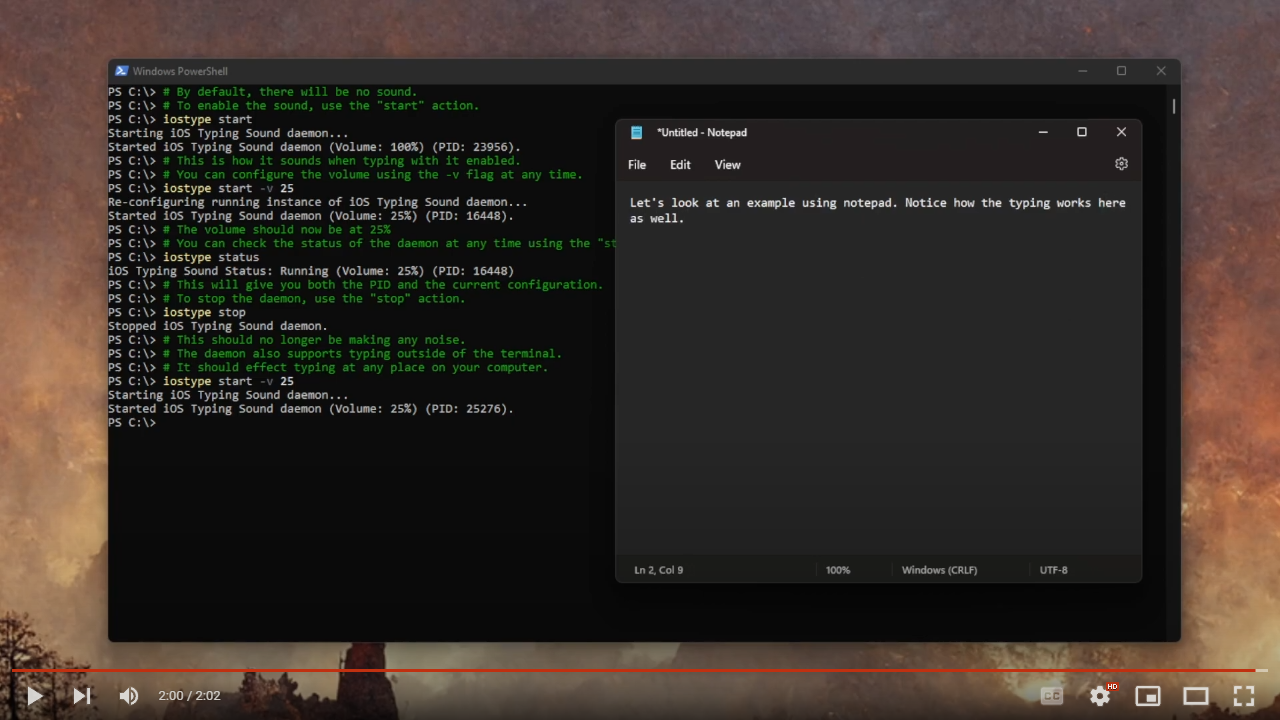
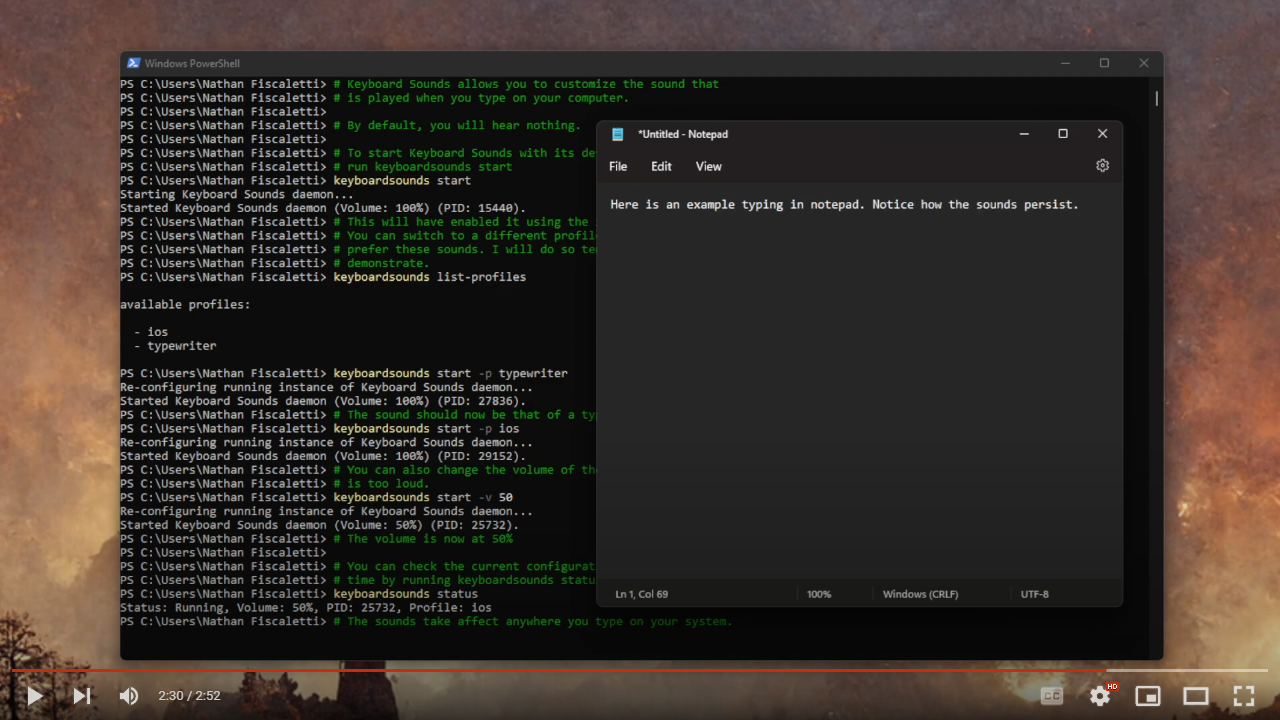
Renamed package to keyboardsounds

diff --git a/keyboardsounds/main.py b/keyboardsounds/main.py
@@ -5,9 +5,9 @@ import json
 
 from importlib.metadata import version
 
-from keyboard_sounds.daemon_manager import DaemonManager
-from keyboard_sounds.profile import Profile
-from keyboard_sounds.root import ROOT
+from keyboardsounds.daemon_manager import DaemonManager
+from keyboardsounds.profile import Profile
+from keyboardsounds.root import ROOT
 
 def main():
     LOCK_FILE = f"{ROOT}/.lock"
@@ -33,7 +33,7 @@ def main():
     )
 
     parser = argparse.ArgumentParser(
-        prog=f"keyboard-sounds",
+        prog=f"keyboardsounds",
         usage=argparse.SUPPRESS,
         description=f"Keyboard Sounds v{version_number}{os.linesep * 2}{usage}{os.linesep}",
         formatter_class=argparse.RawDescriptionHelpFormatter

diff --git a/keyboardsounds/daemon.py b/keyboardsounds/daemon.py
@@ -5,8 +5,8 @@ from pygame import mixer
 
 from pynput.keyboard import Listener
 
-from keyboard_sounds.profile import Profile
-from keyboard_sounds.audio_manager import AudioManager
+from keyboardsounds.profile import Profile
+from keyboardsounds.audio_manager import AudioManager
 
 _am = None
 _volume = 100

diff --git a/keyboardsounds/daemon_manager.py b/keyboardsounds/daemon_manager.py
@@ -5,8 +5,8 @@ import subprocess
 import time
 import json
 
-import keyboard_sounds.daemon as daemon
-from keyboard_sounds.profile import Profile
+import keyboardsounds.daemon as daemon
+from keyboardsounds.profile import Profile
 
 class DaemonManager:
     def __init__(self, lock_file) -> None:

diff --git a/keyboardsounds/audio_manager.py b/keyboardsounds/audio_manager.py
@@ -9,7 +9,7 @@ import io
 from imageio_ffmpeg import get_ffmpeg_exe
 from pynput.keyboard import Key, KeyCode
 
-from keyboard_sounds.profile import Profile
+from keyboardsounds.profile import Profile
 
 class AudioManager:
     def __init__(self, profile: Profile) -> None:

diff --git a/setup.py b/setup.py
@@ -15,7 +15,7 @@ setup(
    },
    entry_points={
          'console_scripts': [
-                'keyboard-sounds = keyboard_sounds.main:main',
+                'keyboardsounds = keyboardsounds.main:main',
          ],
    },
 )

diff --git a/keyboardsounds/profile.py b/keyboardsounds/profile.py
@@ -4,7 +4,7 @@ import zipfile
 import shutil
 import tempfile
 
-from keyboard_sounds.root import ROOT
+from keyboardsounds.root import ROOT
 
 VALID_PROFILE_TYPES = ["video-extract", "files"]
 

diff --git a/README.md b/README.md
@@ -12,7 +12,7 @@ $ pip install keyboardsounds
 
 > Click to view a preview of the application.
 
-[![Preview Video](https://github.com/nathan-fiscaletti/keyboardsounds/blob/master/video-preview.png?raw=true)](https://www.youtube.com/watch?v=r-B0Iqad564)
+[![Preview Video](https://github.com/nathan-fiscaletti/keyboardsounds/blob/master/video-preview.png?raw=true)](https://www.youtube.com/watch?v=sWAj8zEk7sQ)
 
 ## Overview
 
@@ -29,7 +29,7 @@ You can also create [Custom Profiles](#custom-profiles).
 
 In an effort not to directly distribute the iOS keyboard sound effects this package comes with a video recording of an iOS screen including typing in the recording. This recording is loaded at run-time and the audio clips are extracted and stored in memory for use.
 
-> See [AudioManager.prime_audio_clips](./keyboard_sounds/audio_manager.py#L19) for more information.
+> See [AudioManager.prime_audio_clips](./keyboardsounds/audio_manager.py#L19) for more information.
 
 ## Usage
 
@@ -40,19 +40,19 @@ usage:
 
   manage daemon:
 
-    keyboard-sounds start [-v <volume>] [-p <profile>]
-    keyboard-sounds stop
-    keyboard-sounds status
+    keyboardsounds start [-v <volume>] [-p <profile>]
+    keyboardsounds stop
+    keyboardsounds status
 
   manage profiles:
 
-    keyboard-sounds add-profile -z <zipfile>
-    keyboard-sounds remove-profile -n <profile>
-    keyboard-sounds list-profiles
+    keyboardsounds add-profile -z <zipfile>
+    keyboardsounds remove-profile -n <profile>
+    keyboardsounds list-profiles
 
   other:
 
-    keyboard-sounds version
+    keyboardsounds version
 
 
 positional arguments:
@@ -78,12 +78,12 @@ Starts the daemon if it is not running. Otherwise, can be used to re-start it wi
 
 ```powershell
 # Start with default volume of 100%
-$ keyboard-sounds start
+$ keyboardsounds start
 ```
 
 ```powershell
 # Start or reconfigure with a volume of 50%
-$ keyboard-sounds start -v 50
+$ keyboardsounds start -v 50
 ```
 
 **Action: `status`**
@@ -91,7 +91,7 @@ $ keyboard-sounds start -v 50
 Checks the current status of the daemon.
 
 ```powershell
-$ keyboard-sounds status
+$ keyboardsounds status
 ```
 
 **Action: `stop`**
@@ -99,7 +99,7 @@ $ keyboard-sounds status
 Stops the daemon if it is running.
 
 ```powershell
-$ keyboard-sounds stop
+$ keyboardsounds stop
 ```
 
 ### Manage Profiles
@@ -109,7 +109,7 @@ $ keyboard-sounds stop
 Adds a new profile to the application.
 
 ```powershell
-$ keyboard-sounds add-profile -z ./my-profile.zip
+$ keyboardsounds add-profile -z ./my-profile.zip
 ```
 
 **Action: `remove-profile`**
@@ -117,7 +117,7 @@ $ keyboard-sounds add-profile -z ./my-profile.zip
 Removes a profile from the application.
 
 ```powershell
-$ keyboard-sounds remove-profile -n myprofile
+$ keyboardsounds remove-profile -n myprofile
 ```
 
 **Action: `list-profiles`**
@@ -125,7 +125,7 @@ $ keyboard-sounds remove-profile -n myprofile
 Lists the currently loaded profiles.
 
 ```powershell
-$ keyboard-sounds list-profiles
+$ keyboardsounds list-profiles
 ```
 
 ## Custom Profiles
